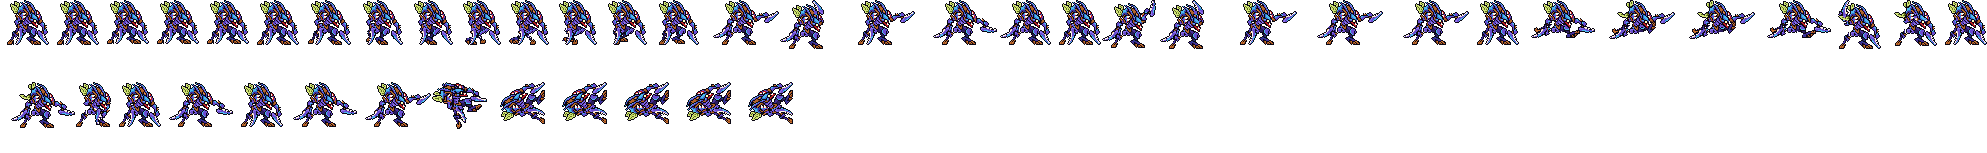
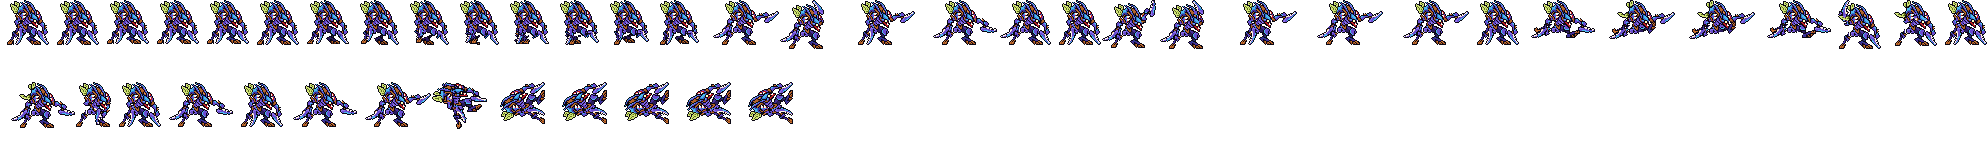
Kha'Zix: the run rebuilt from the design - the legs cross, the far one a shade darker, the claws lifted in turn (「走路时腿有点奇怪啊 这是交叉步？」)

Changed region(s): [[0.156, 0.0, 0.3744, 0.2876]]

diff --git a/tools/art/fix_khazix_strips.py b/tools/art/fix_khazix_strips.py
@@ -11,10 +11,18 @@ down (the user: 「完成下一步 有问题的地方你要灵活运用已有的
 death (rig_samira.py's): frames 1-2 Codex's (struck, knocked back), then the WHOLE design turned 45 degrees back
 (rigkit.turn, RotSprite, about the back foot), then a quarter turn counter-clockwise - on his back, the head to the
 image left, the bent insect legs up at the right - first a row above the ground (the bounce), then on it.
+The run was Codex's rows of the legs shifted in place - the feet slid, the legs never crossed, and the two scythe
+claws that hang to the ground in the design (they read as two more legs) stood still: the user, 「走路时腿有点奇怪啊 这是
+交叉步？」. RUN rebuilds it from the design (rig_samira.py's accepted run): the two insect legs cut out (NEAR_LEG, the
+image-left one, and FAR_LEG under the body), each swung from its hip by row shear with the foot moved whole (STRIDE: the
+feet cross, each lifted while it passes under the body, the lift spread along the shin so the foot never comes off),
+the far leg one shade darker, the body (everything else, the pasted head with it) bobbing a row on each landing, and
+the two claws (BACK_CLAW, FRONT_CLAW: their parts under CLAW_ROW) lifted in turn off the ground as the legs pass.
 Reads codex_strips/khazix_<tag>.png (8x) and khazix_cells.json, writes assets/source/native/khazix_<tag>.png (8x) and
 khazix_cells.json for tools/art/import_native.py. --check only prints what would change.
 """
 import argparse
+import math
 import json
 import os
 import shutil
@@ -40,6 +48,78 @@ BACK_FOOT = (50.0, 99.0)         # the turn's joint: the back foot's heel on the
 # dx = where the box's centre lies from the standing point (he falls back: to the image left)
 DEAD = ["codex", "codex", ("tilt", 45, -6), ("lying", 1, -8), ("lying", 0, -8), ("lying", 0, -8), ("lying", 0, -8),
         ("lying", 0, -8)]
+
+
+# ---- the run (the design's canvas: soles on row 99)
+NEAR_HIP, NEAR_FOOT = 84, 95        # the image-left leg: from its hip (hidden under the body) to the toe claws' rows
+FAR_HIP, FAR_FOOT = 89, 95
+CLAW_ROW = 88                       # the claws' parts from this row down lift off the ground
+# per frame: near foot dx, near lift, far foot dx, far lift, back-claw lift, front-claw lift, body bob (rows down)
+STRIDE = [(0, 0, 0, 0, 0, 0, 1), (4, 1, -3, 0, 2, 0, 0), (9, 2, -7, 0, 3, 0, 0), (14, 1, -11, 0, 2, 0, 0),
+          (16, 0, -14, 0, 0, 0, 1), (12, 0, -10, 1, 0, 2, 0), (7, 0, -6, 2, 0, 3, 0), (3, 0, -2, 1, 0, 2, 0)]
+BONE = {(242, 220, 212), (255, 246, 240), (200, 168, 168)}     # the claws' edge colours (never part of a leg)
+
+
+def leg_masks(d):
+    op = d[..., 3] > 0
+    yy, xx = np.mgrid[0:d.shape[0], 0:d.shape[1]]
+    bone = np.zeros(op.shape, bool)
+    for c in BONE:
+        bone |= (d[..., :3] == c).all(-1)
+    near = op & ~bone & (((yy >= NEAR_HIP) & (xx <= 55)) | ((yy >= 82) & (yy < NEAR_HIP) & (xx >= 52) & (xx <= 55)))
+    far = op & ~bone & (yy >= FAR_HIP) & (xx >= 63) & (xx <= 80)
+    back = op & ~near & ~far & (yy >= CLAW_ROW) & (xx >= 53) & (xx <= 63)
+    front = op & ~near & ~far & (yy >= CLAW_ROW) & (xx >= 75)
+    return near, far, back, front
+
+
+def darker(d):
+    """Each colour -> the design's next darker colour of a like hue (the outline stays)."""
+    op = d[..., 3] > 0
+    pal = np.unique(d[op][:, :3], axis=0).astype(int)
+    lum = pal @ np.array([299, 587, 114]) / 1000
+    out = {}
+    for c, l in zip(pal, lum):
+        cand = [(p, pl) for p, pl in zip(pal, lum) if pl < l - 6]
+        if l < 30 or not cand:
+            out[tuple(c)] = tuple(c)
+            continue
+        cn = c / max(1, c.sum())
+        out[tuple(c)] = tuple(min(cand, key=lambda q: 400 * np.abs(q[0] / max(1, q[0].sum()) - cn).sum() + (l - q[1]))[0])
+    return out
+
+
+def swung(d, mask, hip, foot, dx, lift, drop, shade=None):
+    """The leg's squares sheared from the hip: rows above `foot` moved in proportion (dx and lift), the foot whole."""
+    out = np.zeros_like(d)
+    for r, c in zip(*np.nonzero(mask)):
+        t = min(1.0, max(0, r - hip) / max(1, foot - hip))
+        sh = int(math.floor(dx * t + 0.5))
+        up = int(math.floor(lift * t + 0.5))
+        rr, cc = r - up + drop, c + sh
+        if 0 <= rr < d.shape[0] and 0 <= cc < d.shape[1]:
+            px = d[r, c].copy()
+            if shade is not None:
+                px[:3] = shade[tuple(int(v) for v in px[:3])]
+            out[rr, cc] = px
+    return out
+
+
+def run_frame(d, k, masks, shade):
+    near, far, back, front = masks
+    nd, nl, fd, fl, bl, frl, bob = STRIDE[k]
+    rest = d.copy()
+    rest[near | far | back | front] = 0
+    out = np.zeros_like(d)
+    K.put(out, swung(d, far, FAR_HIP, FAR_FOOT, fd, fl, bob, shade), 0, 0)
+    K.put(out, K.shifted(rest, 0, bob), 0, 0)
+    claw = lambda m, lift: K.shifted(np.where(m[..., None], d, 0).astype(np.uint8), 0, bob - lift)
+    K.put(out, claw(back, bl), 0, 0)
+    # the near leg over the back claw (it is the leg nearest the viewer), under the front claw
+    K.put(out, swung(d, near, NEAR_HIP, NEAR_FOOT, nd, nl, bob), 0, 0)
+    K.put(out, claw(front, frl), 0, 0)
+    out[SOLES + 1:] = 0
+    return out
 
 
 def at1x(path):
@@ -84,6 +164,17 @@ def main():
     ink = outline_colour(design)
     for tag in TAGS:
         sheet = at1x(os.path.join(SRC, f"khazix_{tag}.png"))
+        if tag == "run":
+            cols = sheet.shape[1] // cw
+            masks, shade = leg_masks(design), darker(design)
+            for i in range(len(STRIDE)):
+                fig = K.finish(run_frame(design, i, masks, shade), ink, SOLES)
+                X, Y = (i % cols) * cw, (i // cols) * ch
+                px, py = cells["tags"][tag][i]["pivot"]
+                cell = np.zeros((ch, cw, 4), np.uint8)
+                K.put(cell, fig, px - PIVOT[0], py - PIVOT[1])
+                sheet[Y:Y + ch, X:X + cw] = cell
+            print("run: 8 frames rebuilt from the design (crossing legs, claws lifted in turn)")
         if tag == "dead":
             cols = sheet.shape[1] // cw
             for i, what in enumerate(DEAD):
